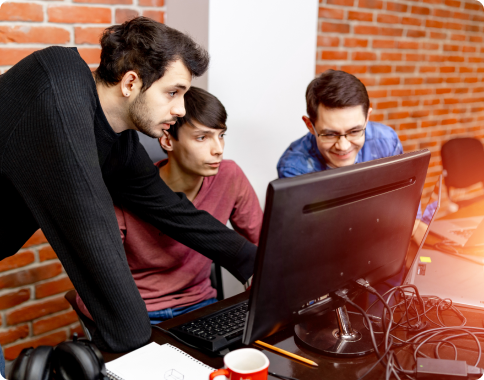
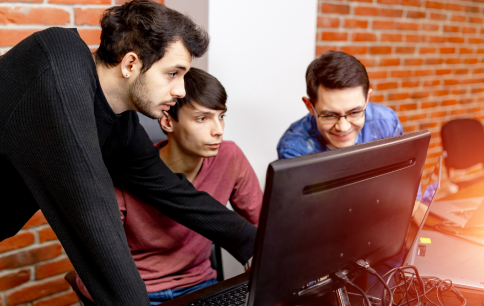
about us

diff --git a/View/NexTech.css b/View/NexTech.css
@@ -1023,107 +1023,96 @@ section .section .body {
 }
 
 /*ABOUT US*/
-section .section .us {
+section .section .about_us {
     display: flex;
     flex-direction: column;
-    justify-content: space-between;
-    font-family: "Lexend_text";
-    position: relative;
-    z-index: 1;
     color: white;
-    text-align: justify;
-    margin: 10px;
+    margin: 40px;
 
-    .images {
-        display: flex;
-        flex-direction: row;
-        gap: 15px;
-        align-items: center;
-        justify-content: space-around;
+    .info {
 
-        .member {
-            width: 28%;
+        .part {
             display: flex;
-            flex-direction: column;
-            align-content: center;
-            justify-content: center;
+            flex-direction: row;
+            gap: 50px;
+            margin-bottom: 60px;
+
+            .text {
+                align-content: center;
+            }
+
+            .image {
+                align-content: center;
+
+                img {
+                    width: 450px;
+                }
+            }
+
+            a {
+                font-family: "Lexend_text";
+                text-decoration: none;
+                color: #2200ff;
+                font-weight: bold;
+            }
+        }
+
+        h2 {
+            font-family: "Lexend_text";
+            color: #a31f66;
+        }
+
+        p,
+        li {
+            font-family: "Lexend_text";
+            color: #090909;
+            text-align: justify;
+        }
+    }
+
+    .founders {
+
+        h1 {
+            font-family: "Montserrat_title";
             text-align: center;
+            font-size: 40px;
+            color: rgb(46, 58, 140);
+        }
 
-            p {
-                margin: 0 auto;
+        .images {
+            display: flex;
+            flex-direction: row;
+            justify-content: space-around;
+
+            .member {
+                display: flex;
+                flex-direction: column;
+                justify-content: center;
+                text-align: center;
+                font-family: "Lexend_text";
+
+                h2 {
+                    color: black;
+                    font-size: 25px;
+                }
+
+                h3 {
+                    color: rgb(127, 255, 212);
+                    font-size: 20px;
+                }
+
+                img {
+                    width: 400px;
+                    height: auto;
+                }
             }
-
-            img {
-                width: 100%;
-                height: auto;
-            }
-
-        }
-
-
-    }
-
-    .fotos_genericas {
-        margin: 0px;
-        max-height: 300px;
-        width: auto;
-        min-width: 30%;
-    }
-
-    h1,
-    h2 {
-        color: #a31f66;
-
-    }
-
-    p,
-    li {
-        color: #090909;
-        text-align: justify;
-    }
-
-    strong {
-        text-decoration: underline #00BFFF;
-    }
-
-    .part {
-        display: flex;
-        flex-direction: row;
-        align-items: center;
-        margin: 20px;
-        text-align: justify;
-        max-width: 100%;
-        justify-content: center;
-
-        a {
-            text-decoration: none;
-            color: #2200ff;
-            font-weight: bold;
-        }
-
-        .text {
-            margin: auto 15px;
         }
     }
-
 }
 
 
 @media screen and (max-width: 1000px) and (min-width:90px) {
-    section .section .us {
-        flex-direction: column;
-        margin: 0px;
 
-        .right {
-            display: flex;
-            flex-direction: row;
-
-            .image {
-                width: 100px;
-                height: 100px;
-            }
-        }
-    }
 }
 
 /*OTHERS*/

diff --git a/View/Nextech_about_us.php b/View/Nextech_about_us.php
@@ -68,71 +68,85 @@ if (!isset($_SESSION["admin"])) {
 
     <section>
         <div class="section">
-            <div class="us">
-                <div class="part">
-                    <div class="text">
-                        <h2>Our Mission</h2>
-                        <p>Technology events drive inspiration, collaboration, and progress. Our mission is to <strong>connect people with the best tech events</strong>, helping professionals, businesses, and enthusiasts find opportunities to engage with the industry’s most influential gatherings.</p>
-                        <h2>What We Do</h2>
-                        <p>We specialize in promoting:</p>
-                        <ul>
-                            <li>Tech conferences featuring leading industry speakers.</li>
-                            <li>Startup showcases highlighting innovative companies.</li>
-                            <li>Workshops and hackathons that boost creativity and technical skills.</li>
-                            <li>Networking events that bring together professionals and visionaries.</li>
-                        </ul>
+            <div class="about_us">
+                <div class="info">
+                    <div class="part">
+                        <div class="text">
+                            <h2>Our Mission</h2>
+                            <p>Technology events drive inspiration, collaboration and progress. Our mission is to <strong>connect people with the best tech events</strong>, helping professionals, businesses and enthusiasts find opportunities to engage with the industry’s most influential gatherings.</p>
+                            <h2>What Do We Do?</h2>
+                            <p>We specialize in promoting:</p>
+                            <ul>
+                                <li><strong>Tech conferences</strong> featuring leading industry speakers.</li>
+                                <li><strong>Startup showcases</strong> highlighting innovative companies.</li>
+                                <li><strong>Workshops and hackathons</strong> that boost creativity and technical skills.</li>
+                                <li><strong>Networking events</strong> that bring together professionals and visionaries.</li>
+                            </ul>
+                        </div>
+                        <div class="image">
+                            <img src="Images/grupo-programadores-senior-hablando-amigos_988095-3223.jpg" alt="image of programmers">
+                        </div>
                     </div>
-                    <img class="fotos_genericas" src="Images/grupo-programadores-senior-hablando-amigos_988095-3223.jpg" alt="foto programadores">
+                    <div class="part">
+                        <div class="image">
+                            <img src="Images/planificadores-eventos-que-organizan-evento-corporativo-marina-antecedentes-tecnologicos_879736-14218.jpg" alt="organizers" class="fotos_genericas">
+                        </div>
+                        <div class="text">
+                            <h2>Our Values</h2>
+                            <p>At <strong>NexTech</strong>, we are guided by a set of core values that define who we are and how we operate:</p>
+                            <ul>
+                                <li><strong>Innovation:</strong> We embrace events that promote creativity and forward-thinking to drive technological progress.</li>
+                                <li><strong>Collaboration:</strong> We believe in the power of teamwork and partnerships to achieve great things.</li>
+                                <li><strong>Integrity:</strong> We are committed to transparency, honesty, and ethical practices in everything we do.</li>
+                                <li><strong>Inclusion:</strong> We strive to create an environment where everyone feels welcome and valued.</li>
+                                <li><strong>Excellence:</strong> We aim to deliver the highest quality experiences for our community.</li>
+                            </ul>
+                        </div>
+                    </div>
+                    <div class="part">
+                        <div class="text">
+                            <h2>Our Story</h2>
+                            <p>NexTech started as a passion project in Barcelona, where we, Rodrigo Calderón, Joan Ye, and Rodrigo Mullisaca — three developers who met at <strong>STUCOM</strong> — wanted to create a space where programmers could connect, collaborate and grow.</p>
+                            <p>Frustrated by how scattered tech communities were, we built <strong>NexTech</strong>: a platform designed to bring developers together through networking events, hackathons, and industry gatherings. Today, NexTech is a thriving hub where coders, engineers and tech enthusiasts, find inspiration, opportunities and meaningful connections.</p>
+                        </div>
+                        <div class="image">
+                            <img src="Images/Student-IT-and-Tech-Support.png" alt="values" class="fotos_genericas">
+                        </div>
+                    </div>
+                    <div class="part">
+                        <div class="image">
+                            <img src="Images/Data_Services_Constellation1.jpg" alt="values" class="fotos_genericas">
+                        </div>
+                        <div class="text">
+                            <h2>Why Choose Us?</h2>
+                            <p>We provide a curated selection of top-tier technology events, ensuring that individuals and organizations can easily find and participate in "transformative experiences". Our platform makes discovering opportunities simple and accessible, connecting you with the latest industry trends and innovations. Whether you're looking to expand your knowledge, network with industry leaders, or discover new technologies, NexTech offers the perfect space to grow and thrive.</p>
+                            <h2>Join Us</h2>
+                            <p>Looking for the next big tech event? <strong>NexTech</strong> is here to keep you informed and connected.</p>
+                            <a href="NexTech_events.php">Start exploring today!</a>
+                        </div>
+                    </div>
                 </div>
-                <div class="part">
-                    <img src="Images/planificadores-eventos-que-organizan-evento-corporativo-marina-antecedentes-tecnologicos_879736-14218.jpg" alt="organizers" class="fotos_genericas">
-                    <div class="text">
-                        <h2>Our Values</h2>
-                        <p>At <strong>NexTech</strong>, we are guided by a set of core values that define who we are and how we operate:</p>
-                        <ul>
-                            <li><strong>Innovation:</strong> We embrace events that foment creativity and forward-thinking to drive technological progress.</li>
-                            <li><strong>Collaboration:</strong> We believe in the power of teamwork and partnerships to achieve great things.</li>
-                            <!--<li><strong>Integrity:</strong> We are committed to transparency, honesty, and ethical practices in everything we do.</li> -->
-                            <!--<li><strong>Inclusion:</strong> We strive to create an environment where everyone feels welcome and valued.</li>-->
-                            <li><strong>Excellence:</strong> We aim to deliver the highest quality experiences for our community.</li>
-                        </ul>
+
+                <div class="founders">
+                    <div>
+                        <h1>Founders of Nextech</h1>
                     </div>
-                </div>
-                <div class="part">
-                    <div class="text">
-                        <h2>Our Story</h2>
-                        <p>NexTech started as a passion project in Barcelona, where Rodrigo Calderón, Joan Ye, and Rodrigo Mullizac, three developers,meeted in STUCOM, wanted to create a space where programmers could connect, collaborate, and grow.</p>
-                        <p>Frustrated by how scattered tech communities were, they built NexTech: a platform designed to bring developers together through networking events, hackathons, and industry gatherings. Today, NexTech is a thriving hub where coders, engineers, and tech enthusiasts find inspiration, opportunities, and meaningful connections.</p>
-                    </div>
-                    <img src="Images/Student-IT-and-Tech-Support.png" alt="values" class="fotos_genericas">
-                </div>
-                <div class="part">
-                    <img src="Images/Data_Services_Constellation1.webp" alt="values" class="fotos_genericas">
-                    <div class="text">
-                        <h2>Why Choose Us?</h2>
-                        <p>We provide a curated selection of top-tier technology events, ensuring that individuals and organizations can easily find and participate in **transformative experiences**. Our platform makes discovering opportunities simple and accessible.</p>
-                        <h2>Join Us</h2>
-                        <p>Looking for the next big tech event? <strong>Nextech</strong> is here to keep you informed and connected. <a href="NexTech_events.php">Start exploring today!</></a>
-                    </div>
-                </div>
-                <div style="text-align: center;">
-                    <h1 style="color: blue;">Founders of Nextech</h1>
-                </div>
-                <div class="images">
-                    <div class="member">
-                        <img class="image" src="Images/imagen_rodrigo_curriculum_nou.png" alt="RodrigoC">
-                        <h2>RodrigoC</h2>
-                        <h3 style="color: rgb(127, 255, 212);">Backend Especialist</h3>
-                    </div>
-                    <div class="member">
-                        <img class="image" src="Images/generic_profile.png" alt="Joan">
-                        <h2>Joan</h2>
-                        <h3 style="color: rgb(127, 255, 212);">Full stack Especialist</h3>
-                    </div>
-                    <div class="member">
-                        <img class="image" src="Images/generic_profile.png" alt="RodrigoM">
-                        <h2>RodrigoM</h2>
-                        <h3 style="color: rgb(127, 255, 212);">Frontend Especialist</h3>
+                    <div class="images">
+                        <div class="member">
+                            <img class="image" src="Images/imagen_rodrigo_curriculum_nou.png" alt="RodrigoC">
+                            <h2>RodrigoC</h2>
+                            <h3>Backend Especialist</h3>
+                        </div>
+                        <div class="member">
+                            <img class="image" src="Images/generic_profile.png" alt="Joan">
+                            <h2>Joan</h2>
+                            <h3>Full stack Especialist</h3>
+                        </div>
+                        <div class="member">
+                            <img class="image" src="Images/generic_profile.png" alt="RodrigoM">
+                            <h2>RodrigoM</h2>
+                            <h3>Frontend Especialist</h3>
+                        </div>
                     </div>
                 </div>
             </div>
